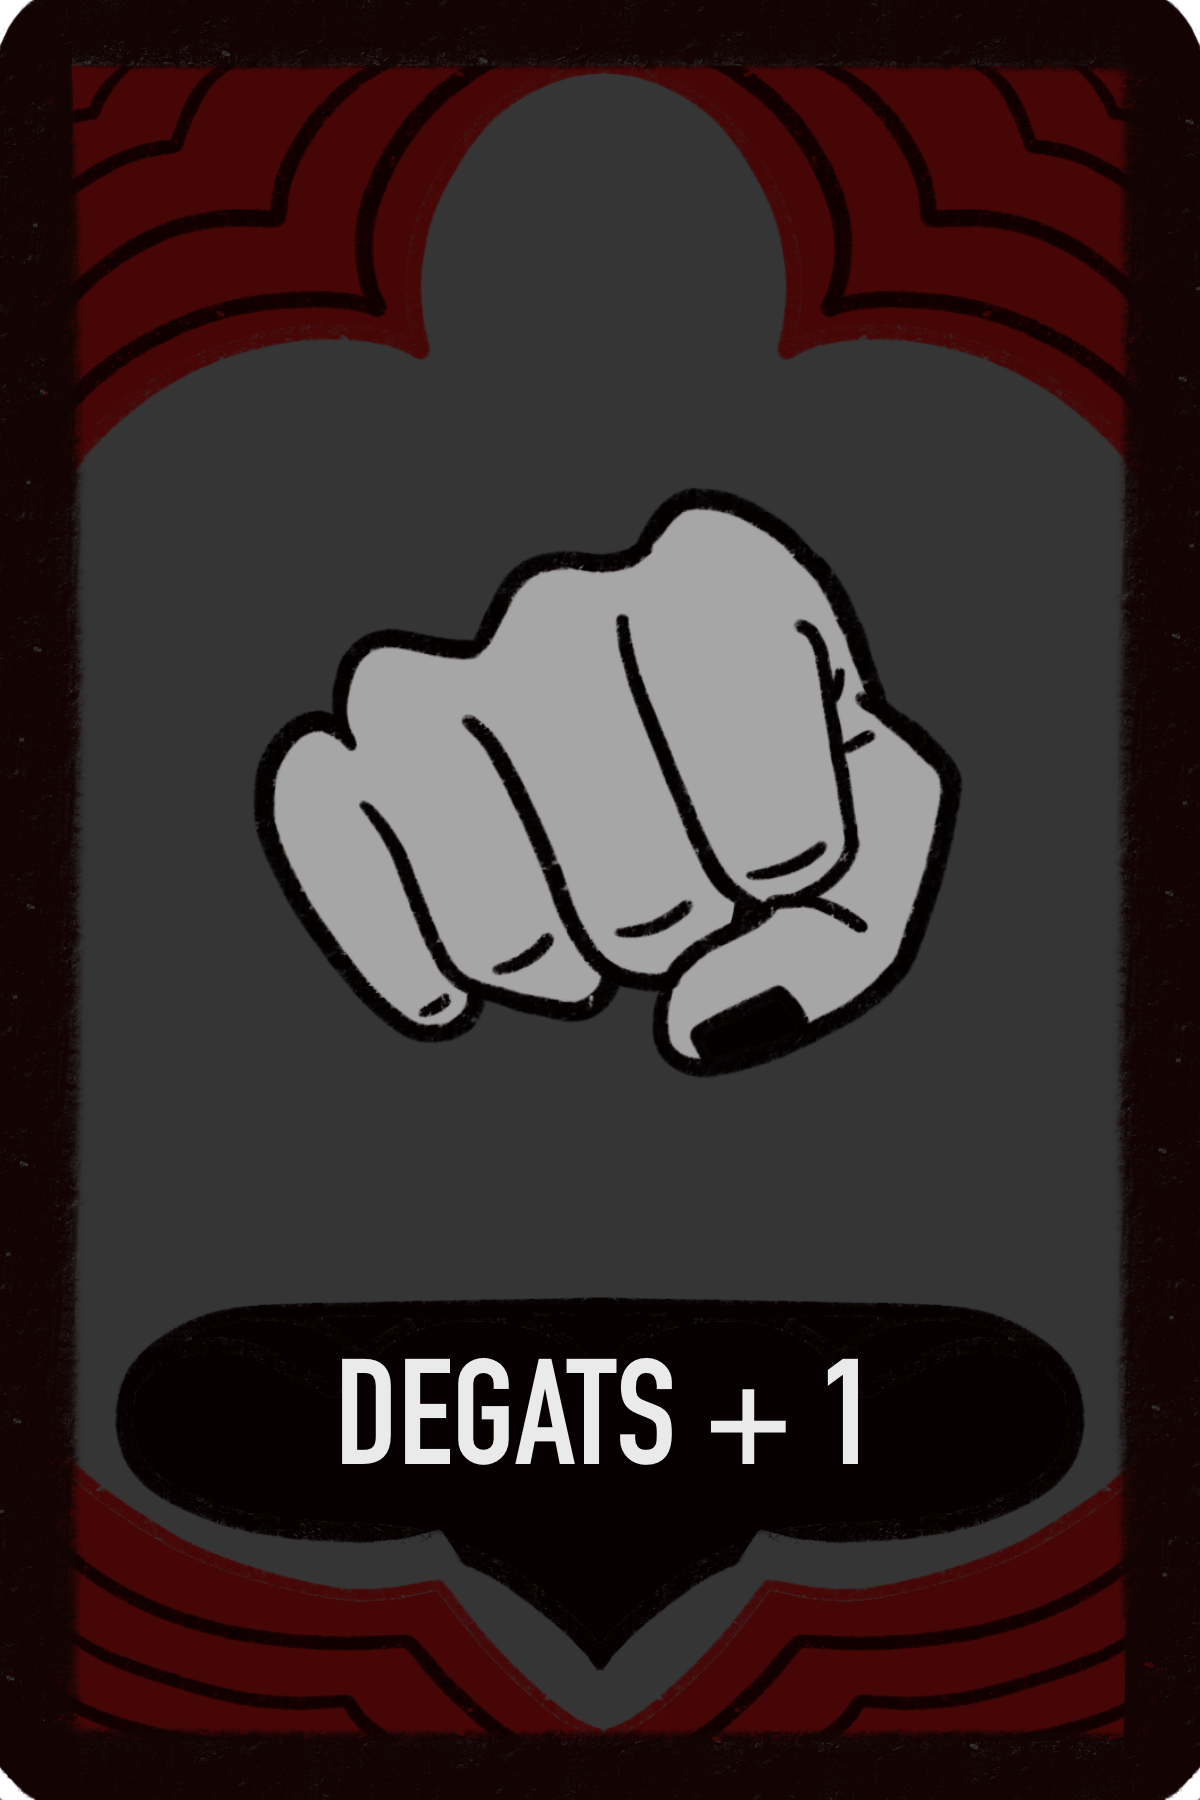
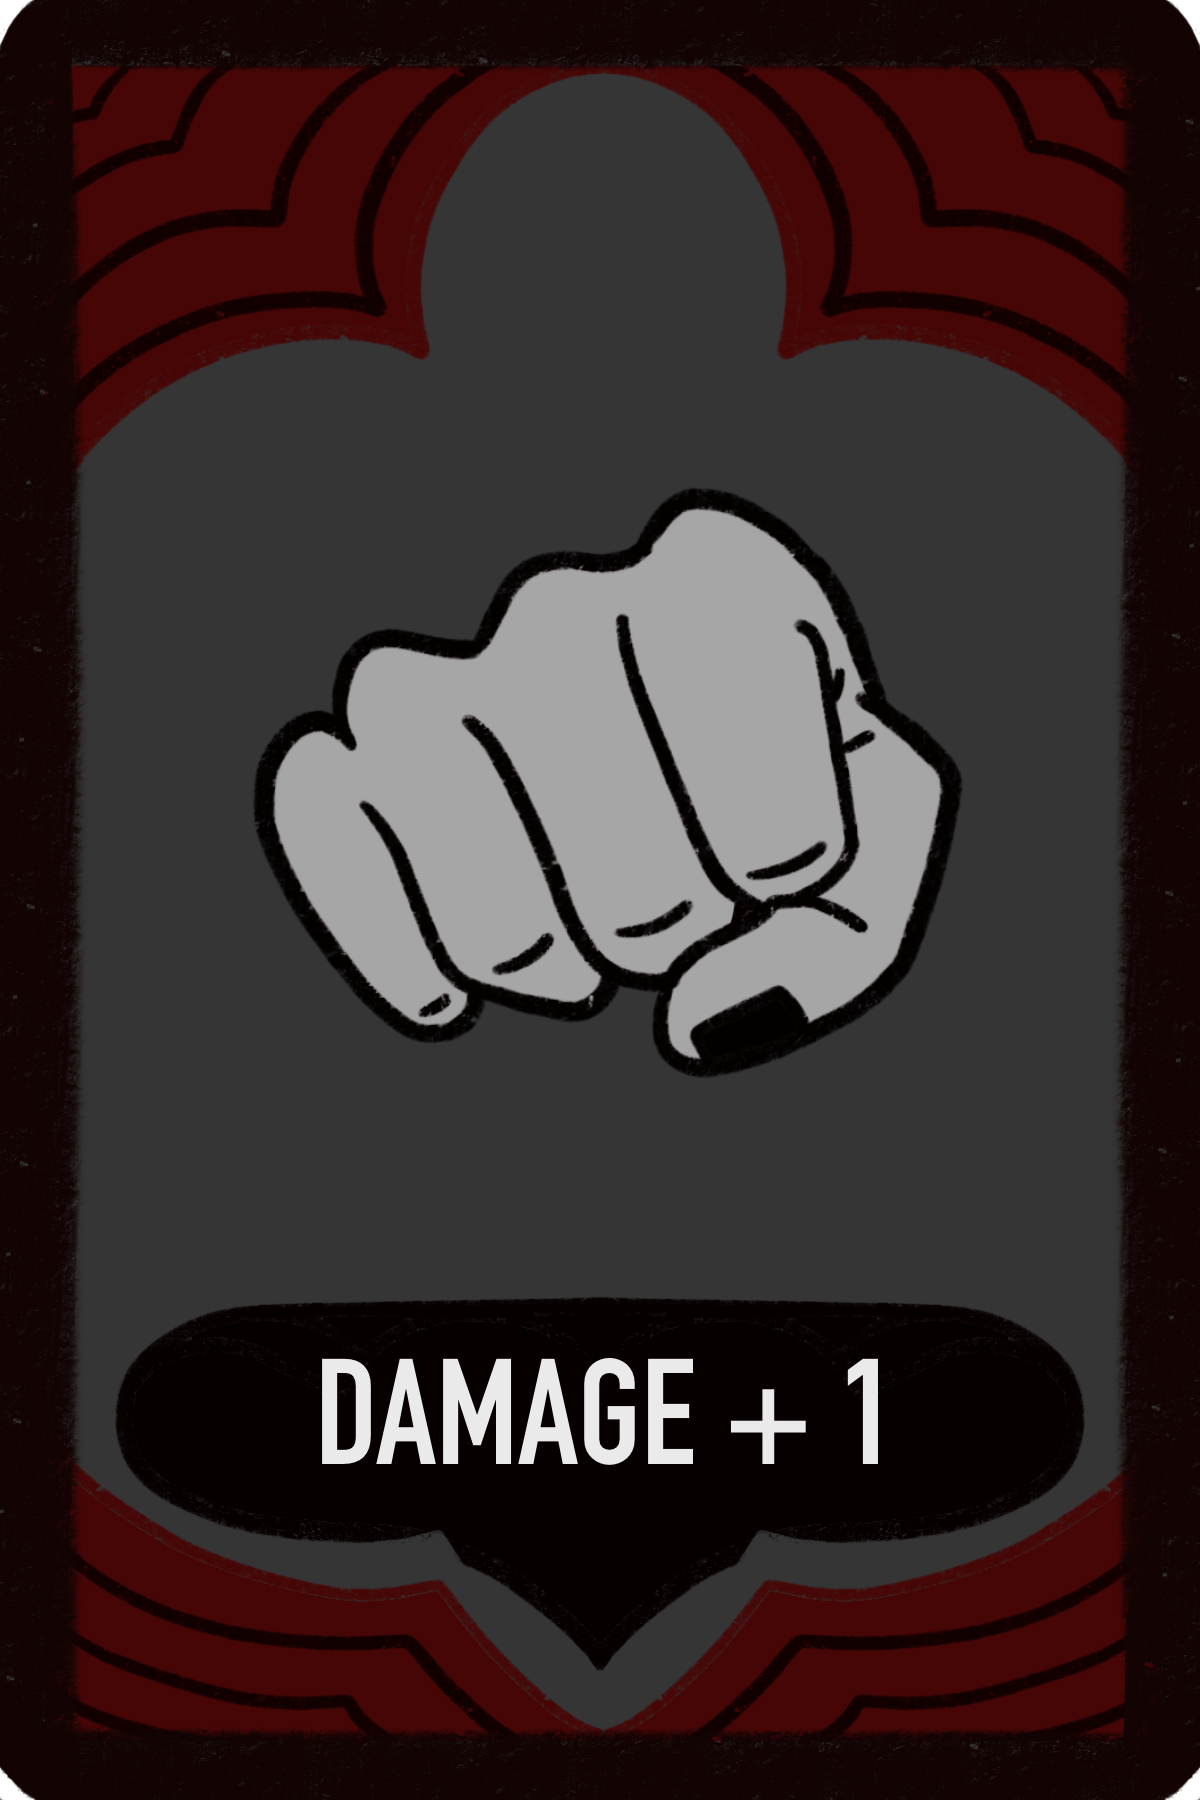
Change enemy projectile sprite and upgrade buttons language to english

Changed region(s): [[0.2467, 0.7467, 0.74, 0.84]]

diff --git a/C_Sharp/World.cs b/C_Sharp/World.cs
@@ -37,6 +37,7 @@ public class World : Game
     public static Texture2D XpBarBackground;
     public static Texture2D XpBarForeground;
     public static Texture2D DefaultProjectileTexture;
+    public static Texture2D EnemyProjectileTexture;
 
     //Lists containing Texture2D used to create sprite sheets for animated sprites
     private readonly ArrayList _enemyHandToHandTextureList = new();
@@ -224,6 +225,7 @@ public class World : Game
         }
 
         DefaultProjectileTexture = Content.Load<Texture2D>("standardProjectile");
+        EnemyProjectileTexture = Content.Load<Texture2D>("enemyProjectile");
         XpBarBackground = Content.Load<Texture2D>("xp_bar_background");
         XpBarForeground = Content.Load<Texture2D>("xp_bar_foreground");
 

diff --git a/C_Sharp/DistanceEnemy.cs b/C_Sharp/DistanceEnemy.cs
@@ -52,7 +52,7 @@ public class DistanceEnemy : Enemy
     {
         _lastTimeFired = time;
         return new Projectile(new Rectangle((int)Position.X, (int)Position.Y, 32, 32),
-            new Sprite(World.DefaultProjectileTexture, Position, 32), Position, new Vector2(5.0f, 5.0f),
+            new Sprite(World.EnemyProjectileTexture, Position, 40), Position, new Vector2(5.0f, 5.0f),
             Vector2.Normalize(_player.Position - Position), 1, Damage, false, false);
     }
 }
